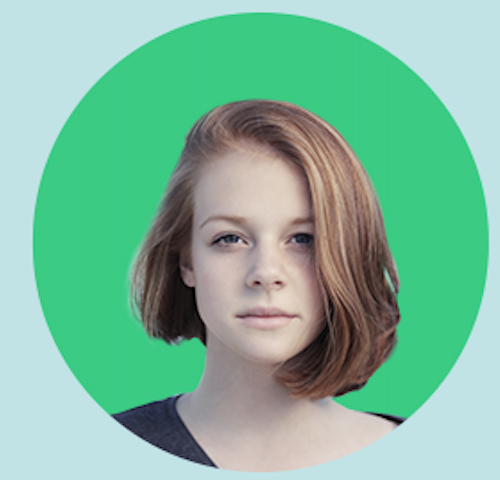
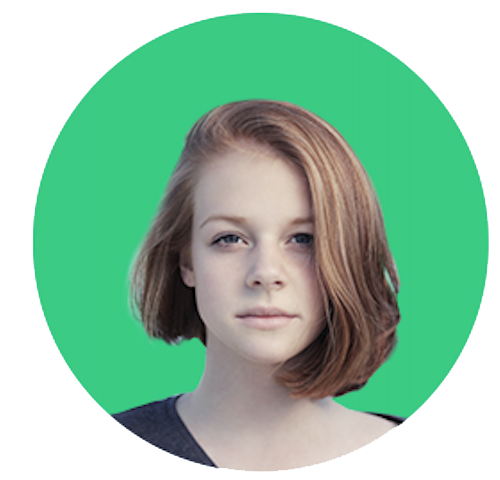
3

diff --git a/style.css b/style.css
@@ -4,6 +4,8 @@ body{
 }
 div#logo{
 	margin: 75px 200px;
+	width:245px;
+	height: 95px;
 }
 
 .standart{
@@ -13,7 +15,7 @@ div#logo{
 }
 .white{
 	background-color: white;
-	width: 870px;
+	max-width: 53em;
 	height: 1000px;
 	margin: auto;
 	border-radius: 7px;
@@ -22,7 +24,7 @@ div#logo{
 }
 .profile{
 	background-color: #c1e3e6;
-	width: 800px;
+	max-width: 49em;
 	height: 350px;
 	margin: auto;
 }
@@ -40,15 +42,20 @@ div#logo{
 	margin-top: -20px;
 }
 .link{
-
+display: inline;
+width:250px; 
+height:25px;
 }
 .about{
-	width: 700px;
+	max-width: 700px;
 	height: 350px;
 	margin-left: 60px;
 	margin-top: 50px;
 	font-size: 26px;
 	position: absolute;
+}
+.about :nth-child(2){
+	font-size:22px;
 }
 .button{
 	text-align:center; 
@@ -65,13 +72,104 @@ div#logo{
 .ola{
 	position:absolute;
 	margin:280px 680px;
-	width: 150px;
+	max-width: 9em;
 	height: 100px;
 }
 .right{
-	width: 70px;
+	max-width: 4em;
 	height: 500px;
-	position:absolute;
-	margin-left: 1100px;
+	float: right;
+	margin-right: 120px;
 	margin-top: -900px;
 }
+
+@media screen and (max-width:376px) {
+
+	body{
+	background-color: #c1e3e6;
+	font-family: arial;
+	width:300px;
+}
+	div#logo{
+	margin: 0px 0px;
+	width:100px;
+	height: 80px;
+}
+
+.standart{
+	margin: 10px 10px;
+	width: 300px;
+	font-size: 25px;
+}
+.white{
+	background-color: white;
+	width: 600px;
+	height: 700px;
+}
+.profile{
+	background-color: #c1e3e6;
+	width: 580px;
+	height: 270px;
+	margin: auto;
+}
+.profile img{
+	margin: 10px 15px;
+}
+.name{
+	position: relative;
+	display:block;
+	font-size: 30px;
+	margin: -200px 330px;
+	width: 200px
+}
+.name :nth-child(2){
+	font-size: 20px;
+	color: gray;
+	margin-top: -20px;
+
+}
+.link{
+	position: relative;
+	margin:400px 0px;
+	display: none;
+}
+.about{
+	width: 570px;
+	height: 350px;
+	margin-left: 10px;
+	margin-top: 0px;
+	font-size: 20px;
+	position: absolute;
+}
+.about :nth-child(2){
+	font-size:15px;
+}
+.button{
+	text-align:center; 
+	position: absolute;
+	margin: 170px 20px;
+	font-size: 16px; 
+	color:white;
+	background-color: black;
+	border: 0px;
+	padding: 15px 24px;
+	border-radius: 50px;
+	width: 250px;
+}
+.ola{
+	position:absolute;
+	margin:150px 480px;
+	width: 100px;
+	height: 75px;
+}
+.right{
+	max-width: 4em;
+	height: 500px;
+	display: block;
+	margin-left: 620px;
+	margin-top: -650px;
+	position: absolute;
+}
+
+}
+

diff --git a/index.html b/index.html
@@ -1,11 +1,12 @@
 <!DOCTYPE html>
 	<head>
 		<meta charset="utf-8">
+		<meta name="viewport" content="width=device-width, initial-scale=1">
 		<link rel="stylesheet" type="text/css" href="style.css">
 	</head>
 	<body>
 		<div id="logo">
-    		<img src="logo.png" width="245" height="95" alt=".Certy">
+    		<img src="logo.png"  alt=".Certy">
 		</div>
 		<div class="standart">
 			<p>
@@ -17,16 +18,16 @@
 		</div>
 		<div class="white">
 			<div class="profile">
-				<img src="ph.png" width="245" height="235" alt="photo">
+				<img src="ph2.png" width="245" height="235" alt="photo">
 				<div class="name">
 					<p><b>OLA LOWE</b></p>
 					<P>Florist | Decorator</P>
 				</div>
-				<img class="link" src="link.png" width="250" height="25" alt="link">
+				<img class="link" src="link.png"  alt="link">
 			</div>
 			<div class="about">
 				<p><b>ABOUT ME</b></p>
-				<p style="font-size: 22px"><b>Helo, I'm Ola Lowe!</b><br>
+				<p><b>Helo, I'm Ola Lowe!</b><br>
 				Logo or your Company name, unless of course you are Microsoft or the Yellow Pages online directorye core of your marketing, the central theme around your products and services.</p>
 			</div>
 			<p ><button type="submit" class="button">DOWNLOAD RESUME</button>
